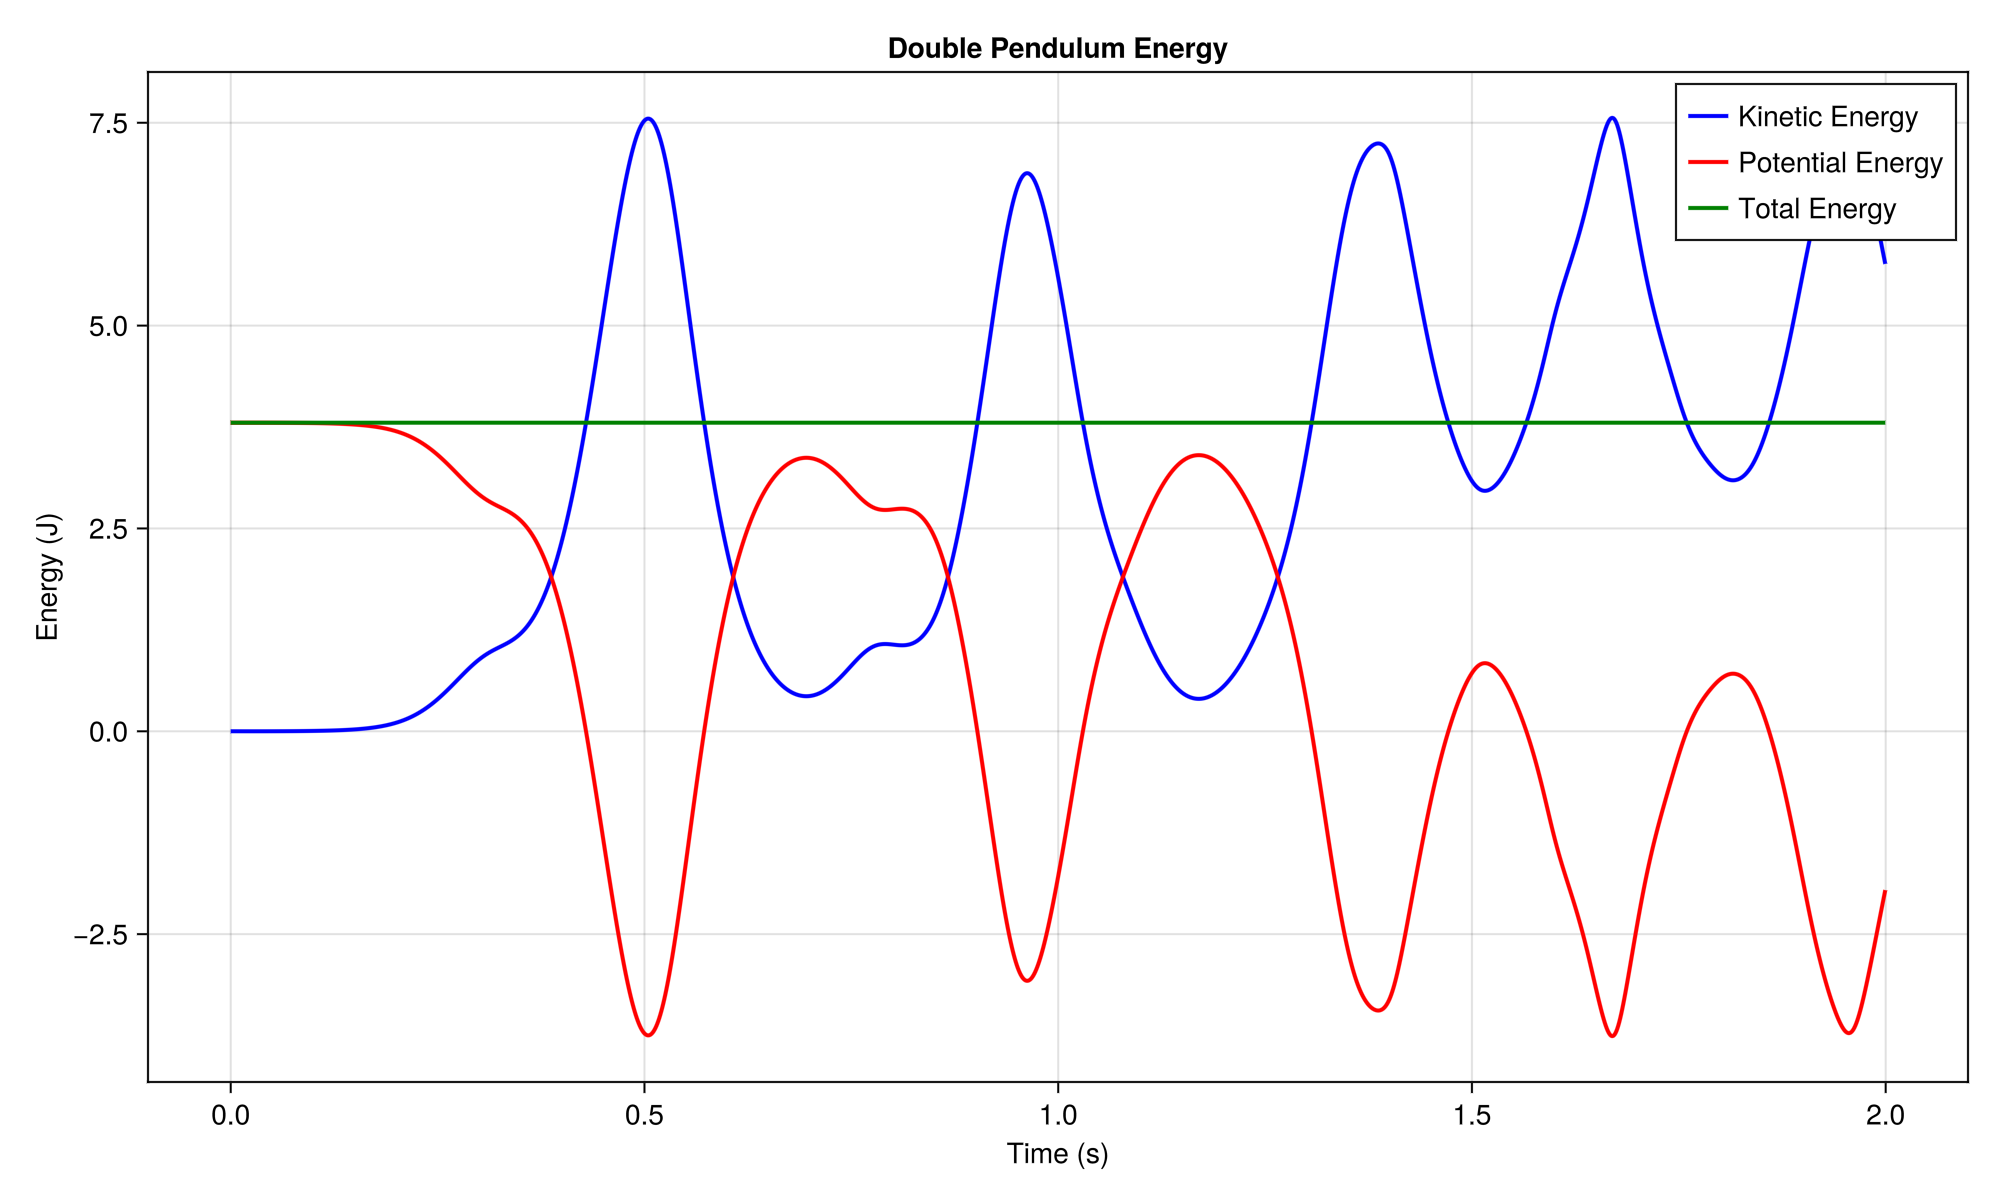
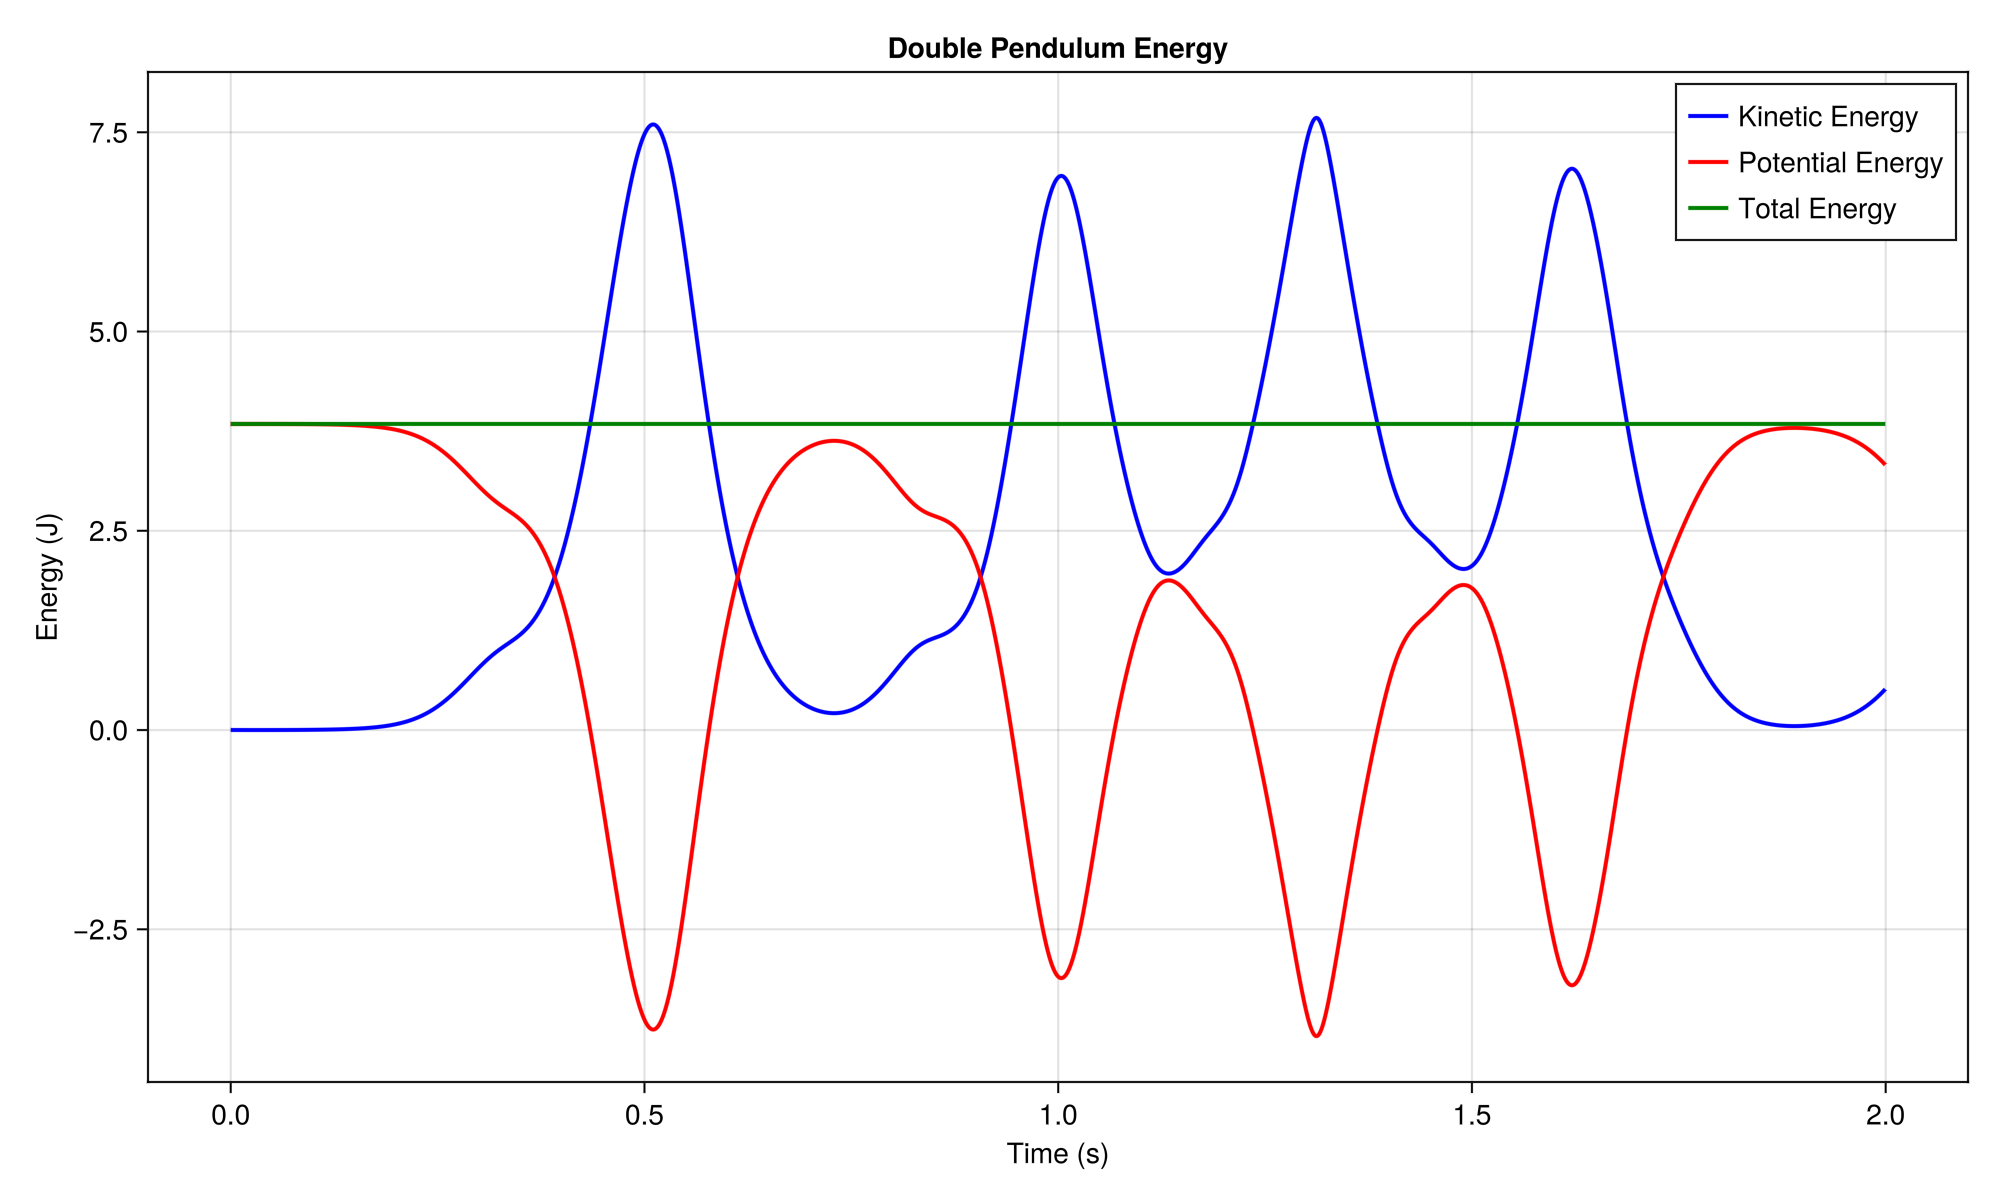
clean readme

diff --git a/README.md b/README.md
@@ -1,12 +1,35 @@
 # double_pendulum
-
 physics project that is a double pendulum simulation
+
+## main.jl
+- runs simulation and video analysis
+- tries to optimize starting parameters to correspond to video
+- makes a comparison gif between simulation and video
+- estimates the precision of simulation with multiple scores (mse, time-accuracy, energy-deviation)
+- gives a png of energy accuracy
+- tries to extend the video with simulation
+- makes an extension gif for video
 
 ## double_pendulum.jl
 contains the physic equations, and the simulation with euler / RK4
 
 ## analysis.jl
-analyses video to get the centroids of the masses, will be used to compare to simulation
+analyses video to get the centroids of the masses, used to compare to simulation
 
-## main.jl
-will call both and make comparisons. (todo)
+## optimizer.jl
+runs an adam-estimation to try to find m1/m2, w1_init and w2_init
+
+## energies.jl
+analyses kinetic, potential and total energy
+and standard deviation
+
+## plotters.jl
+makes every plot needed
+
+## helpers.jl
+de-cluster main
+
+
+![analysis / simulation comparison](pendulum_comparison.gif)
+![energy over time of simulation](energy_plot.png)
+![video extension](extended_overlay.gif)
